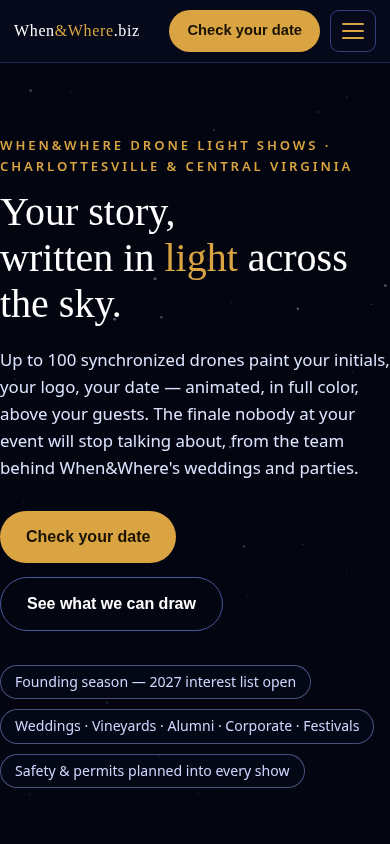
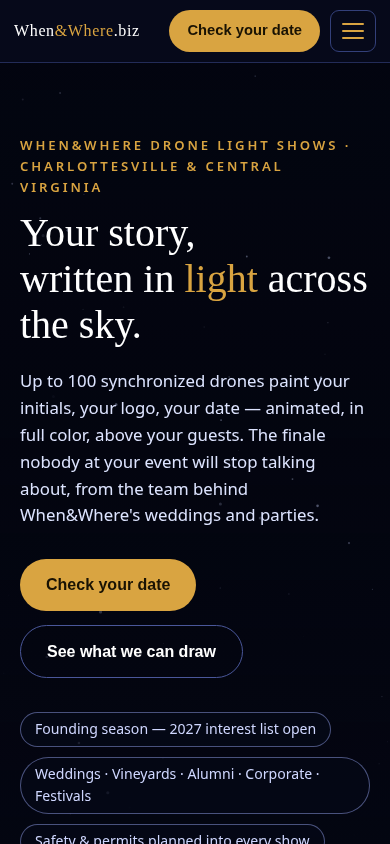
Hero: 20px side padding on narrow screens (kicker ran flush to the edge)
Root cause: .hero-in's padding:110px 0 84px (and the <=620px
rule's padding:72px 0 60px) overrides .wrap's 20px side padding —
same specificity, later in the stylesheet — so below 760px the
hero content is full-width with zero side padding. Measured live
at 390px before the fix: kicker x=0, width 390; h1 x=0.
Both rules now carry 20px horizontal padding (110px 20px 84px /
72px 20px 60px), matching the rest of the page. After the fix:
kicker x=20, width 350, no horizontal overflow. Desktop hero
unchanged (content area 760->720px, imperceptible — box-sizing:
border-box keeps it centred). Mobile hero + desktop hero
screenshots re-captured; CHANGELOG gains a no-version-bump
section.

diff --git a/index.html b/index.html
@@ -84,7 +84,7 @@
       .hero{position:relative;background:var(--night);color:var(--night-ink);overflow:hidden}
       .hero img.bg,.hero canvas.bg{position:absolute;inset:0;width:100%;height:100%;object-fit:cover;opacity:.82}
       .hero .shade{position:absolute;inset:0;background:linear-gradient(180deg,rgba(4,6,18,.42) 0%,rgba(4,6,18,.18) 42%,rgba(4,6,18,.88) 100%)}
-      .hero-in{position:relative;padding:110px 0 84px;max-width:760px}
+      .hero-in{position:relative;padding:110px 20px 84px;max-width:760px}
       .hero .kicker{color:var(--gold-bright)}
       .hero h1{font-size:clamp(2.5rem,6.4vw,4.3rem);color:#fff}
       .hero h1 .gold{color:var(--gold-bright)}
@@ -205,7 +205,7 @@
       @media (max-width: 620px){
         section{padding:52px 0}
         .cards,.tiers,.steps,.versus,.frow{grid-template-columns:1fr}
-        .hero-in{padding:72px 0 60px}
+        .hero-in{padding:72px 20px 60px}
         .nav-in{flex-wrap:wrap;gap:10px;padding:10px 14px}
         .brand{font-size:1rem}
         .brand small{display:none}

diff --git a/CHANGELOG.md b/CHANGELOG.md
@@ -4,6 +4,21 @@ All notable changes to the WhenWhere drone light shows page, one line
 per shipped change. To release a new version, bump the version comment
 at the top of `index.html` and add a section below.
 
+## Mobile hero padding — 2026-11-26 (no version bump)
+
+- 2026-11-26 — The hero ran flush to the viewport edges on narrow
+  screens: `.hero-in`'s `padding:110px 0 84px` (and the ≤620px rule's
+  `padding:72px 0 60px`) overrode `.wrap`'s 20px side padding, so at
+  390px the kicker, headline, subtext, buttons and chips all started
+  at x=0. Measured live at 390px (kicker x=0, width 390) before the
+  fix; both rules now carry 20px horizontal padding
+  (`110px 20px 84px` / `72px 20px 60px`), matching the rest of the
+  page. After the fix the kicker sits at x=20, width 350, and the
+  desktop hero is unchanged (the content area narrows 760→720px,
+  imperceptible — `box-sizing: border-box` keeps it centred). The
+  mobile hero screenshot in the Screenshots section is re-captured
+  with the fix.
+
 ## Types — 2026-11-26 (no version bump)
 
 - 2026-11-26 — JSDoc types on `config.js` + `studio.js`, checked by TypeScript (`npx tsc --noEmit`, TypeScript 5.9 as a dev dependency, `tsconfig.json` at the repo root). The page's own shapes are now typedefs at the top of `studio.js` — `Point` (with an optional `c` for the heart colours), `Tuning`, `WordItem`, `Glyph`, `Drone`, `Star`, `Inquiry`, `ContentItem`, plus the `WhenWhereConfig` shape in `config.js` and the `WhenWhereGeometry` / `WhenWhereNS` export shapes — and every pure function carries `@param` / `@returns` (the four that already had JSDoc now use the `Point` typedef). The checker is deliberately not strict: strictNullChecks would flag every `getElementById(...).value` in the DOM wiring, and the value here is catching shape mistakes in the geometry + config, not proving every element exists. No build step and no emit — the `.js` files are still the shipped code, and the check runs in CI alongside the smoke + geometry tests. Four tiny code fixes the checker needed, all behaviour-identical: `config.js` now declares `var WHENWHERE_CONFIG` (a top-level var in a classic script IS a window property) instead of assigning to `window.WHENWHERE_CONFIG`; `thinUniform`'s for-in loop variable is `key`, not `k` (a number elsewhere in the same function); `wordPoints` initialises `items`/`gap`/`totalW` at declaration; and the fleet-count button label writes `String(n)` instead of a bare number. Verified: `tsc --noEmit` clean, and a deliberate `targetMin: "fifty"` is flagged `Type 'string' is not assignable to type 'number'`; geometry 52/52 and the smoke test pass unchanged, no JS errors. No page change. **Fix, same day:** the first cut used `jsconfig.json`, which `tsc` does not pick up on its own — a bare `npx tsc --noEmit` printed the help text and exited 1. Renamed to `tsconfig.json` (with `allowJs: true`, which a tsconfig does not imply the way a jsconfig does), so the bare command now exits 0; README, CHANGELOG and the workflow now name `tsconfig.json`.
